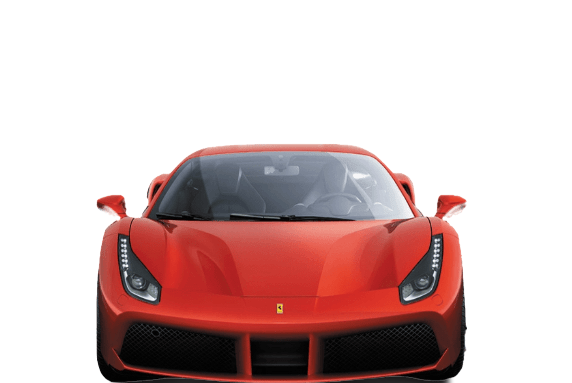
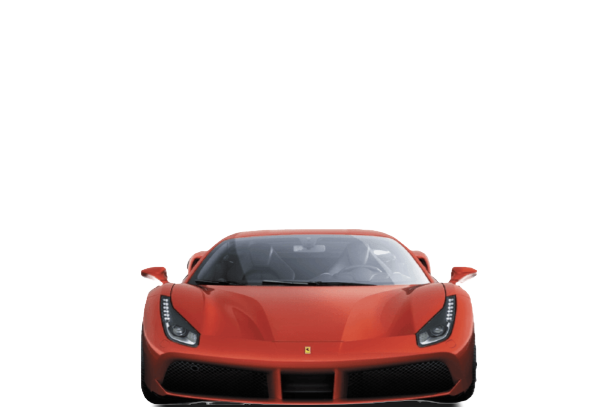
akhir push

diff --git a/bonus/src/init/fullmaputils.c b/bonus/src/init/fullmaputils.c
@@ -3,10 +3,10 @@
 /*                                                        :::      ::::::::   */
 /*   fullmaputils.c                                     :+:      :+:    :+:   */
 /*                                                    +:+ +:+         +:+     */
-/*   By: lsabik <lsabik@student.42.fr>              +#+  +:+       +#+        */
+/*   By: nouahidi <nouahidi@student.42.fr>          +#+  +:+       +#+        */
 /*                                                +#+#+#+#+#+   +#+           */
 /*   Created: 2023/07/21 09:34:44 by nouahidi          #+#    #+#             */
-/*   Updated: 2023/07/24 14:57:13 by lsabik           ###   ########.fr       */
+/*   Updated: 2023/07/26 10:52:37 by nouahidi         ###   ########.fr       */
 /*                                                                            */
 /* ************************************************************************** */
 
@@ -28,6 +28,10 @@ void	puts_walls(int x, int y, t_cub3d_data *cub, int flag)
 				mlx_put_pixel(cub->full_map, x++, y, WHITE_MP);
 			else if (flag == 2)
 				mlx_put_pixel(cub->full_map, x++, y, 0xA9A9A9FF);
+			else if (flag == 3)
+				mlx_put_pixel(cub->full_map, x++, y, GREEN_MP);
+			else if (flag == 4)
+				mlx_put_pixel(cub->full_map, x++, y, DARKGREY_MP);
 			else
 				mlx_put_pixel(cub->full_map, x++, y, PURPLE_MP);
 		}
@@ -56,7 +60,13 @@ void	draw_fullmap(t_cub3d_data *cub)
 			else if (cub->matrice[j][i] == 'D')
 				puts_walls(x, y, cub, 2);
 			else if (cub->matrice[j][i] == 'Y')
+				puts_walls(x, y, cub, 5);
+			else if (cub->matrice[j][i] == 'T')
+				puts_walls(x, y, cub, 3);
+			else if (cub->matrice[j][i] == 'y')
 				puts_walls(x, y, cub, 0);
+			else if (cub->matrice[j][i] == 'L')
+				puts_walls(x, y, cub, 4);
 			i++;
 			x += cub->x_wall;
 		}

diff --git a/bonus/src/render/sprite_utils.c b/bonus/src/render/sprite_utils.c
@@ -6,7 +6,7 @@
 /*   By: nouahidi <nouahidi@student.42.fr>          +#+  +:+       +#+        */
 /*                                                +#+#+#+#+#+   +#+           */
 /*   Created: 2023/07/21 17:04:59 by lsabik            #+#    #+#             */
-/*   Updated: 2023/07/25 14:57:32 by nouahidi         ###   ########.fr       */
+/*   Updated: 2023/07/26 10:42:37 by nouahidi         ###   ########.fr       */
 /*                                                                            */
 /* ************************************************************************** */
 
@@ -45,16 +45,16 @@ void	find_coordinates(t_cub3d_data *cub)
 					cub->sprites[k].sp_text = cub->text[19];
 					cub->sprites[k].index = 19;
 				}
-				// else if (cub->matrice[j][i] == 'L')
-				// {
-				// 	cub->sprites[k].sp_text = cub->text[22];
-				// 	cub->sprites[k].index = 22;
-				// }
-				// else if (cub->matrice[j][i] == 'l')
-				// {
-				// 	cub->sprites[k].sp_text = cub->text[21];
-				// 	cub->sprites[k].index = 21;
-				// }
+				else if (cub->matrice[j][i] == 'L')
+				{
+					cub->sprites[k].sp_text = cub->text[22];
+					cub->sprites[k].index = 22;
+				}
+				else if (cub->matrice[j][i] == 'l')
+				{
+					cub->sprites[k].sp_text = cub->text[21];
+					cub->sprites[k].index = 21;
+				}
 				k++;
 			}
 			i++;
@@ -70,7 +70,7 @@ void	find_sprites(t_cub3d_data *cub, int i, int j, int n)
 		i = 0;
 		while (cub->matrice[j][i])
 		{
-			if (cub->matrice[j][i] == 'Y' || cub->matrice[j][i] == 'T' || cub->matrice[j][i] == 'y')
+			if (cub->matrice[j][i] == 'Y' || cub->matrice[j][i] == 'T' || cub->matrice[j][i] == 'y' || cub->matrice[j][i] == 'l' || cub->matrice[j][i] == 'L')
 				n++;
 			i++;
 		}

diff --git a/bonus/includes/macros.h b/bonus/includes/macros.h
@@ -3,10 +3,10 @@
 /*                                                        :::      ::::::::   */
 /*   macros.h                                           :+:      :+:    :+:   */
 /*                                                    +:+ +:+         +:+     */
-/*   By: lsabik <lsabik@student.42.fr>              +#+  +:+       +#+        */
+/*   By: nouahidi <nouahidi@student.42.fr>          +#+  +:+       +#+        */
 /*                                                +#+#+#+#+#+   +#+           */
 /*   Created: 2023/05/19 17:19:25 by lsabik            #+#    #+#             */
-/*   Updated: 2023/07/25 02:28:04 by lsabik           ###   ########.fr       */
+/*   Updated: 2023/07/26 10:52:14 by nouahidi         ###   ########.fr       */
 /*                                                                            */
 /* ************************************************************************** */
 
@@ -40,9 +40,10 @@
 
 # define ORANGE_MP 0xFF7000FF
 # define BLACK_MP 0x000000FF
+# define DARKGREY_MP 0x5C5C5CFF
 # define WHITE_MP 0xFFFFFFFF
 # define RED_MP 0xFF0000FF
-# define GREEN_MP 0x00FF00FF
+# define GREEN_MP 0x006400FF
 # define BLUE_MP 0x0000FFFF
 # define YELLOW_MP 0xFFFF00FF
 # define CYAN_MP 0x00FFFFFF

diff --git a/bonus/src/init/sky_floor.c b/bonus/src/init/sky_floor.c
@@ -6,7 +6,7 @@
 /*   By: nouahidi <nouahidi@student.42.fr>          +#+  +:+       +#+        */
 /*                                                +#+#+#+#+#+   +#+           */
 /*   Created: 2023/07/14 18:34:42 by lsabik            #+#    #+#             */
-/*   Updated: 2023/07/25 14:55:25 by nouahidi         ###   ########.fr       */
+/*   Updated: 2023/07/26 10:42:58 by nouahidi         ###   ########.fr       */
 /*                                                                            */
 /* ************************************************************************** */
 
@@ -97,8 +97,8 @@ void	read_color(t_cub3d_data *cub)
 	load_png(&(cub->text[18]), "images/lights.png");
 	load_png(&(cub->text[19]), "images/ferrari.png");
 	load_png(&(cub->text[20]), "images/tree.png");
-	load_png(&(cub->text[21]), "images/lights.png");
-	load_png(&(cub->text[22]), "images/gta.png");
+	load_png(&(cub->text[21]), "images/light.png");
+	load_png(&(cub->text[22]), "images/lights.png");
 	i = -1;
 	while (++i < 23)
 		png_info(cub, i, cub->text[i]);

diff --git a/bonus/src/init/init.c b/bonus/src/init/init.c
@@ -6,7 +6,7 @@
 /*   By: nouahidi <nouahidi@student.42.fr>          +#+  +:+       +#+        */
 /*                                                +#+#+#+#+#+   +#+           */
 /*   Created: 2023/05/19 14:47:32 by lsabik            #+#    #+#             */
-/*   Updated: 2023/07/25 15:24:28 by nouahidi         ###   ########.fr       */
+/*   Updated: 2023/07/26 11:00:16 by nouahidi         ###   ########.fr       */
 /*                                                                            */
 /* ************************************************************************** */
 
@@ -72,7 +72,6 @@ void	ft_mlx_init(t_cub3d_data *cub)
 	cub->mode_fg = 0;
 	cub->screen_img = mlx_texture_to_image(cub->mlx, cub->cj[0]);
 	cub->intro = mlx_texture_to_image(cub->mlx, cub->cj[1]);
-	add_sounds(cub, C);
 	init_data_player(cub);
 	init_ray_data(cub);
 	cub->openflag = 1;

diff --git a/bonus/src/main.c b/bonus/src/main.c
@@ -6,7 +6,7 @@
 /*   By: nouahidi <nouahidi@student.42.fr>          +#+  +:+       +#+        */
 /*                                                +#+#+#+#+#+   +#+           */
 /*   Created: 2023/05/19 13:21:47 by lsabik            #+#    #+#             */
-/*   Updated: 2023/07/25 15:03:43 by nouahidi         ###   ########.fr       */
+/*   Updated: 2023/07/26 11:00:30 by nouahidi         ###   ########.fr       */
 /*                                                                            */
 /* ************************************************************************** */
 
@@ -85,6 +85,7 @@ int	main(int ac, char **av)
 	read_color(cub);
 	cub_img(cub);
 	display_current_time(cub);
+	add_sounds(cub, C);
 	put_images_to_window(cub);
 	mlx_set_cursor_mode(cub->mlx, MLX_MOUSE_HIDDEN);
 	mlx_cursor_hook(cub->mlx, (void *)ft_mouse, cub);

diff --git a/bonus/src/parsing/valide_file.c b/bonus/src/parsing/valide_file.c
@@ -6,7 +6,7 @@
 /*   By: nouahidi <nouahidi@student.42.fr>          +#+  +:+       +#+        */
 /*                                                +#+#+#+#+#+   +#+           */
 /*   Created: 2023/05/19 22:37:31 by lsabik            #+#    #+#             */
-/*   Updated: 2023/07/25 14:52:11 by nouahidi         ###   ########.fr       */
+/*   Updated: 2023/07/26 10:43:50 by nouahidi         ###   ########.fr       */
 /*                                                                            */
 /* ************************************************************************** */
 
@@ -14,7 +14,7 @@
 
 int	sprites_char(char c)
 {
-	return (c == 'Y' || c == 'y' || c == 'T');
+	return (c == 'Y' || c == 'y' || c == 'T' || c == 'l' || c == 'L');
 }
 
 int	valid_char(t_cub3d_data *cub, char c, int i, int j)
